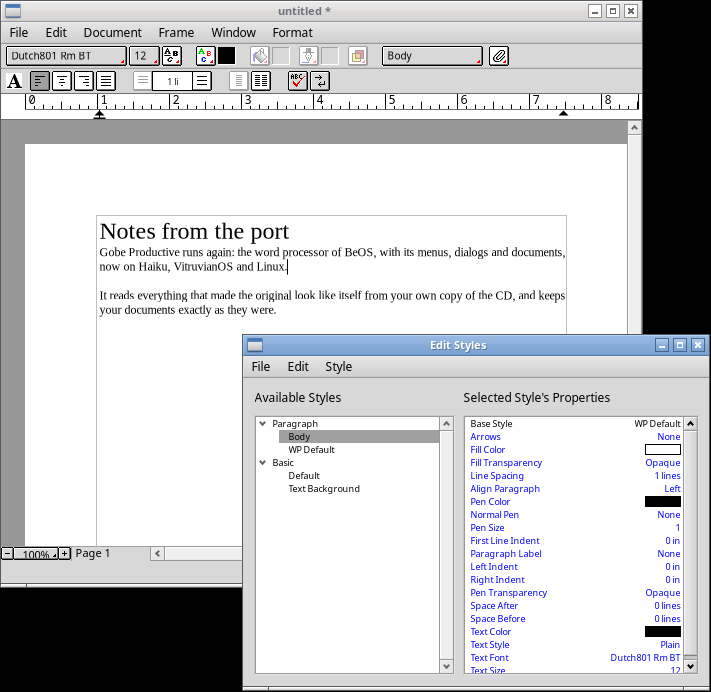
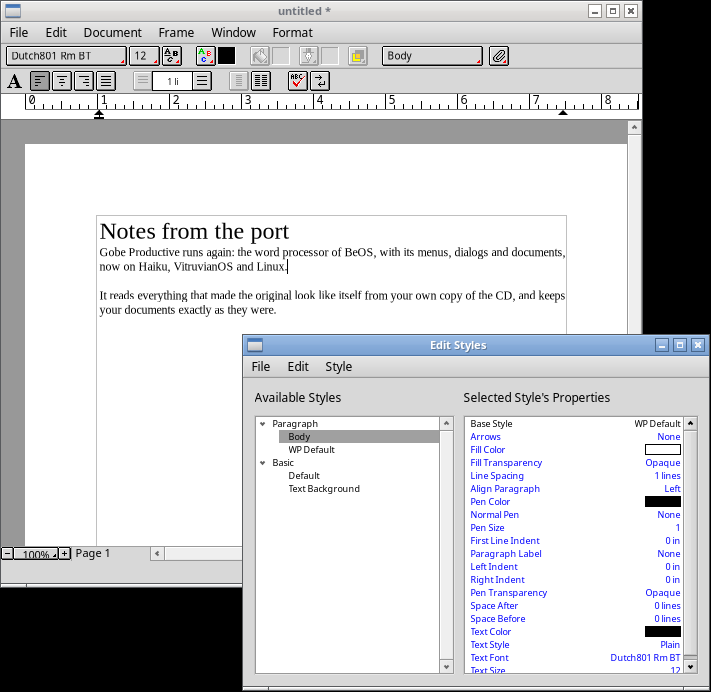
README: Linux screenshot from a build with Hokku's drawing fixes
Taken from the AppImage CI built against Hokku a882a46b (run 40129303345),
the same steps as before.

diff --git a/README.md b/README.md
@@ -93,7 +93,7 @@ On VitruvianOS, finding a word:
 
 ![Gobe Productive on VitruvianOS: Find/Replace](docs/screenshots/vitruvianos-find.png)
 
-On Linux (X11), with Edit Styles:
+On Linux (X11), with Edit Styles (a build made after 0.1.0, with Hokku's drawing fixes; the 0.1.0 AppImage greys out disabled buttons less faithfully):
 
 ![Gobe Productive on Linux: the Edit Styles floater](docs/screenshots/linux-edit-styles.png)
 
